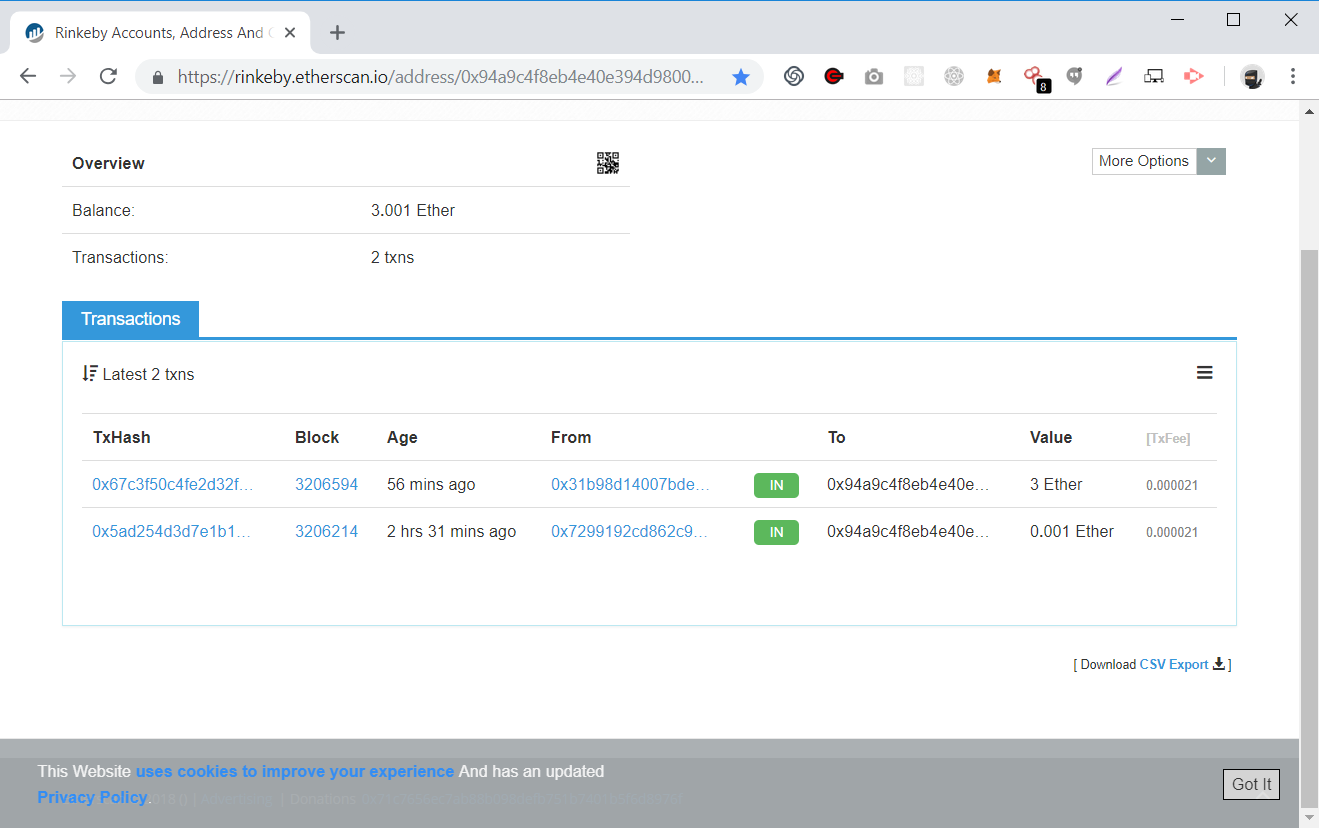
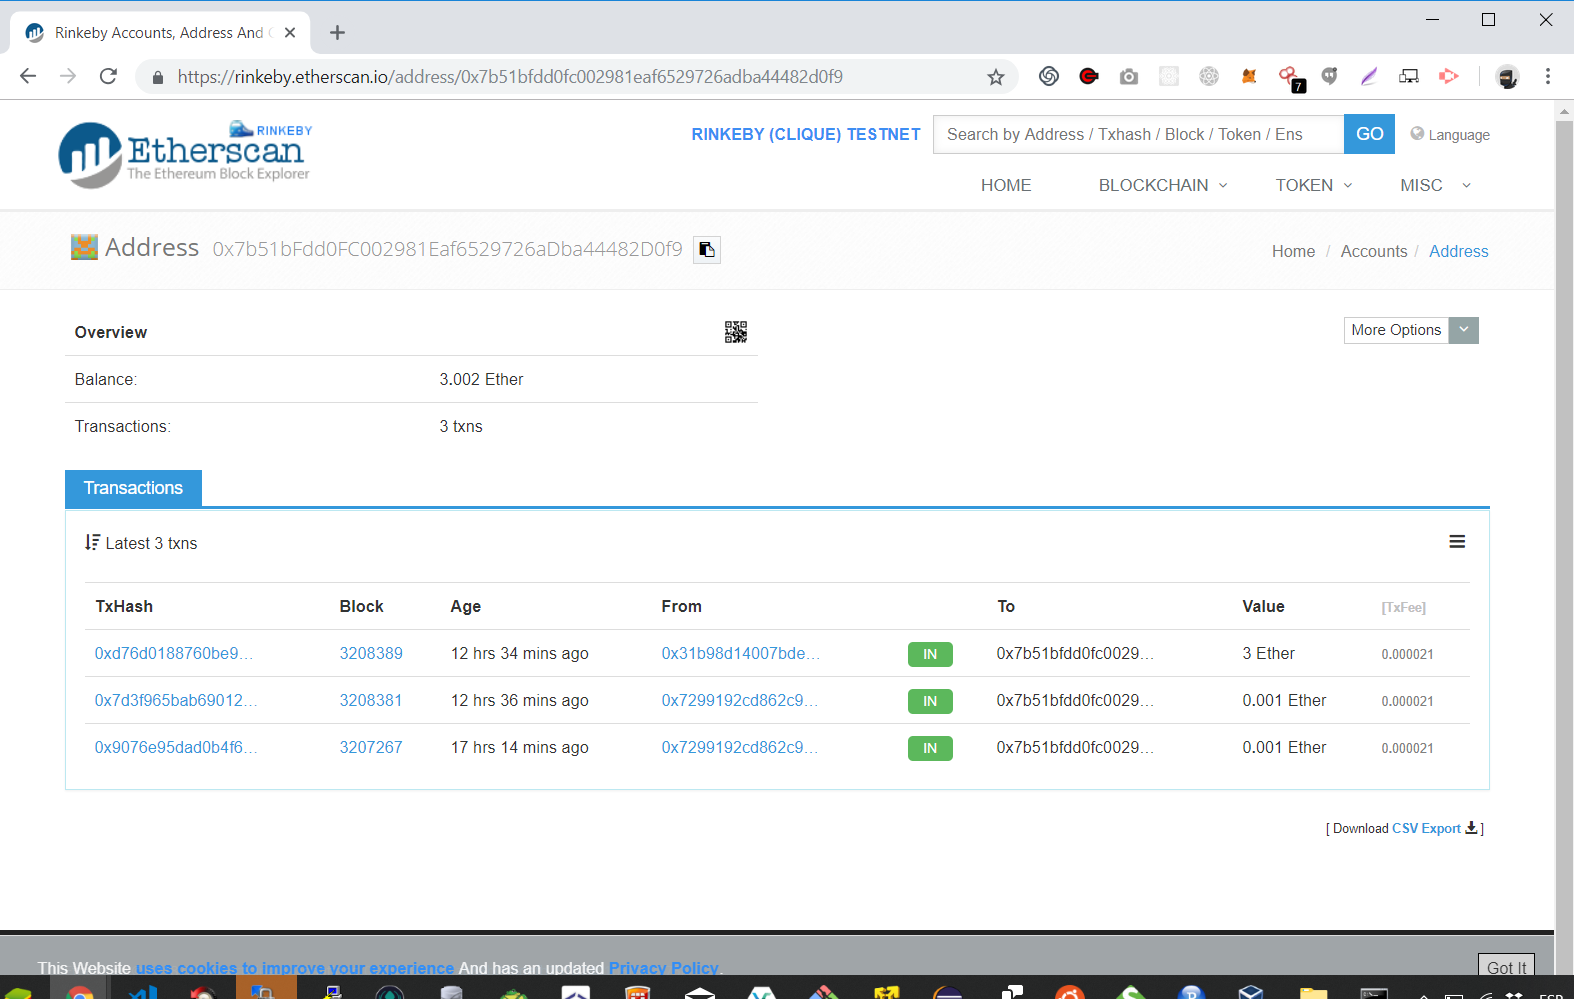
changed pec2

diff --git a/pet-shop-tutorial/truffle.js b/pet-shop-tutorial/truffle.js
@@ -3,15 +3,15 @@ module.exports = {
     // See <http://truffleframework.com/docs/advanced/configuration>
     // for more about customizing your Truffle configuration!
     rinkeby: {
-        host: "127.0.0.1",
+        host: "localhost",
         port: 8545,
         network_id: "4",
-        from: "0x1dBD543B3b09139B876E8185F16A541E37De29dD",
+        from: "0x7b51bfdd0fc002981eaf6529726adba44482d0f9",
         gas: 4700000
     },
     development: {
       host: "localhost",
-      port: 7545,
+      port: 8545,
       network_id: "*" // Match any network id
     }
   }

diff --git a/pec2/ej2/pec2-ej2.md b/pec2/ej2/pec2-ej2.md
@@ -17,52 +17,30 @@ Se modificó el archivo [index.html](https://github.com/dappsar/uah/blob/master/
 
 ### Cambios en el 'empaquetado' del proyecto
 
-Se incorporó **webpack** al archivo package.json, para realizar la distribución de los archivos del proyecto. Los mismos quedan en la carpeta **dist/**. Para ello, se realizó lo siguiente:
+Para subir los archivos a IPFS y SWARM, se empaquetaron en una sola carpeta.  Primero, se instaló webpack, para generar la carpeta **dist/** y copiar los archivos de forma automática, pero detectando algunos problemas y viendo que el javascript, tiene una ruta relativa a un archivo json (pets.json) que necesita el proyecto para funcionar, se terminó por hacer la copia a mano.
 
-* Se instaló webpack con el comando **npm i --save webpack**
+Dentro de la carpeta **dist/**, se cambio el archivo *app.js*, en donde se hace uso del archivo *pets.json*, dado que tiene la ruta relativa a una carpeta.  
 
-* Se creó el archivo **webpack.config.js**, el cual contiene las instrucciones para armar los archivos de distribución del proyecto. Contenido del archivo:
+Se cambió:
+"*getJSON(**'../pets.json'**, function(data)*" 
 
-```
-const path = require('path')
-var CopyWebpackPlugin = require('copy-webpack-plugin');
-var HtmlWebpackPlugin = require('html-webpack-plugin');
+por:
+"*getJSON(**'./pets.json'**, function(data)*"
 
-module.exports = {
-	entry: {main: path.join(__dirname, 'src/js', 'app.js')},
-	output: {
-		path: path.join(__dirname, 'dist'),
-		filename: 'app.js'
-	},
-	/*
-	We added a module key to our webpack config object assigning it an object with rules property, 
-	which is an array of some rules for configuring the loaders we want to use with webpack
-	*/
-	module: {
-		rules: [{
-			test: /\.js$/,
-			exclude: /node_modules/,
-			use: {
-				loader: "babel-loader"
-			}
-		},
-		{
-			test: /\.css$/,
-			use: ['style-loader', 'css-loader'],
-			include: [
-				path.resolve(__dirname, "src/")
-			]
-		}]
-	}
-}
-```
+En dicha carpeta, quedaron los siguientes archivos:
 
-* Dentro de la carpeta **dist/**, se cambio el archivo app.js, en donde hace uso del archivo pets.json, dado que tiene la ruta relativa a una carpeta.  Se cambió: 
-"*$.getJSON(**'../pets.json'**, function(data)*" por "*$.getJSON(**'./pets.json'**, function(data)*"
+* carpeta *images* y todos sus archivos
+* *Adoption.json*
+* *app.js*
+* *index.html*
+* *pets.json*
+
+Las referencias a otros archivos Js y css, tal como boostrap, web3 y truffle-contract, se cambiaron en el index.html, para incorporarlos vía un CDN (Content Delivery Network).
 
 ### Cambios en la configuración de truffle
 
 En el archivo [truffle.js](../../pet-shop-tutorial/truffle.js), se agregó la red **rinkeby**, para luego desplegar el contrato ahí y estar disponible una vez que el sitio se encuentre en ipfs.
+
 
 ```
 module.exports = {
@@ -73,7 +51,6 @@ module.exports = {
         host: "127.0.0.1",
         port: 8545,
         network_id: "4",
-        from: "0x94a9c4f8eb4e40e394d9800b69c42a18fee2af7b",
         gas: 6712390
     },
     development: {
@@ -93,7 +70,7 @@ La carga de ethers, se realizó a través de la URL de faucet para rinkeby: [htt
 
 ![faucets rinkeby](images/address-ethers.png?raw=true "faucets rinkeby")
 
-Se pueden ver las transacciones con los ethers cargados en [etherscan](https://rinkeby.etherscan.io/address/0x94a9c4f8eb4e40e394d9800b69c42a18fee2af7b).
+Se pueden ver las transacciones con los ethers cargados en [etherscan](https://rinkeby.etherscan.io/address/0x7b51bfdd0fc002981eaf6529726adba44482d0f9).
 
 ![evidencia ethers](images/account-faucet-ethers.png?raw=true "evidencia ethers")
 
@@ -124,6 +101,14 @@ truffle migrate -f 2 --network rinkeby
 ```
 
 ![consola 3](images/consola3.png?raw=true "consola 3")
+
+En la instalación de contratos en la red, se detectó un error (*Exceeds block gas limit*) por el valor del *gas* configurado en el archivo *truffle.js*. Para corregirlo, se ingresó en la consola de geth el siguiente comando:
+
+```
+eth.getBlock("latest").gasLimit
+```
+El valor obtenido, es el que se ingresó en el archivo *truffle.js*.
+Con eso se pudo corregir el error.
 
 
 ## Instalación de IPFS
